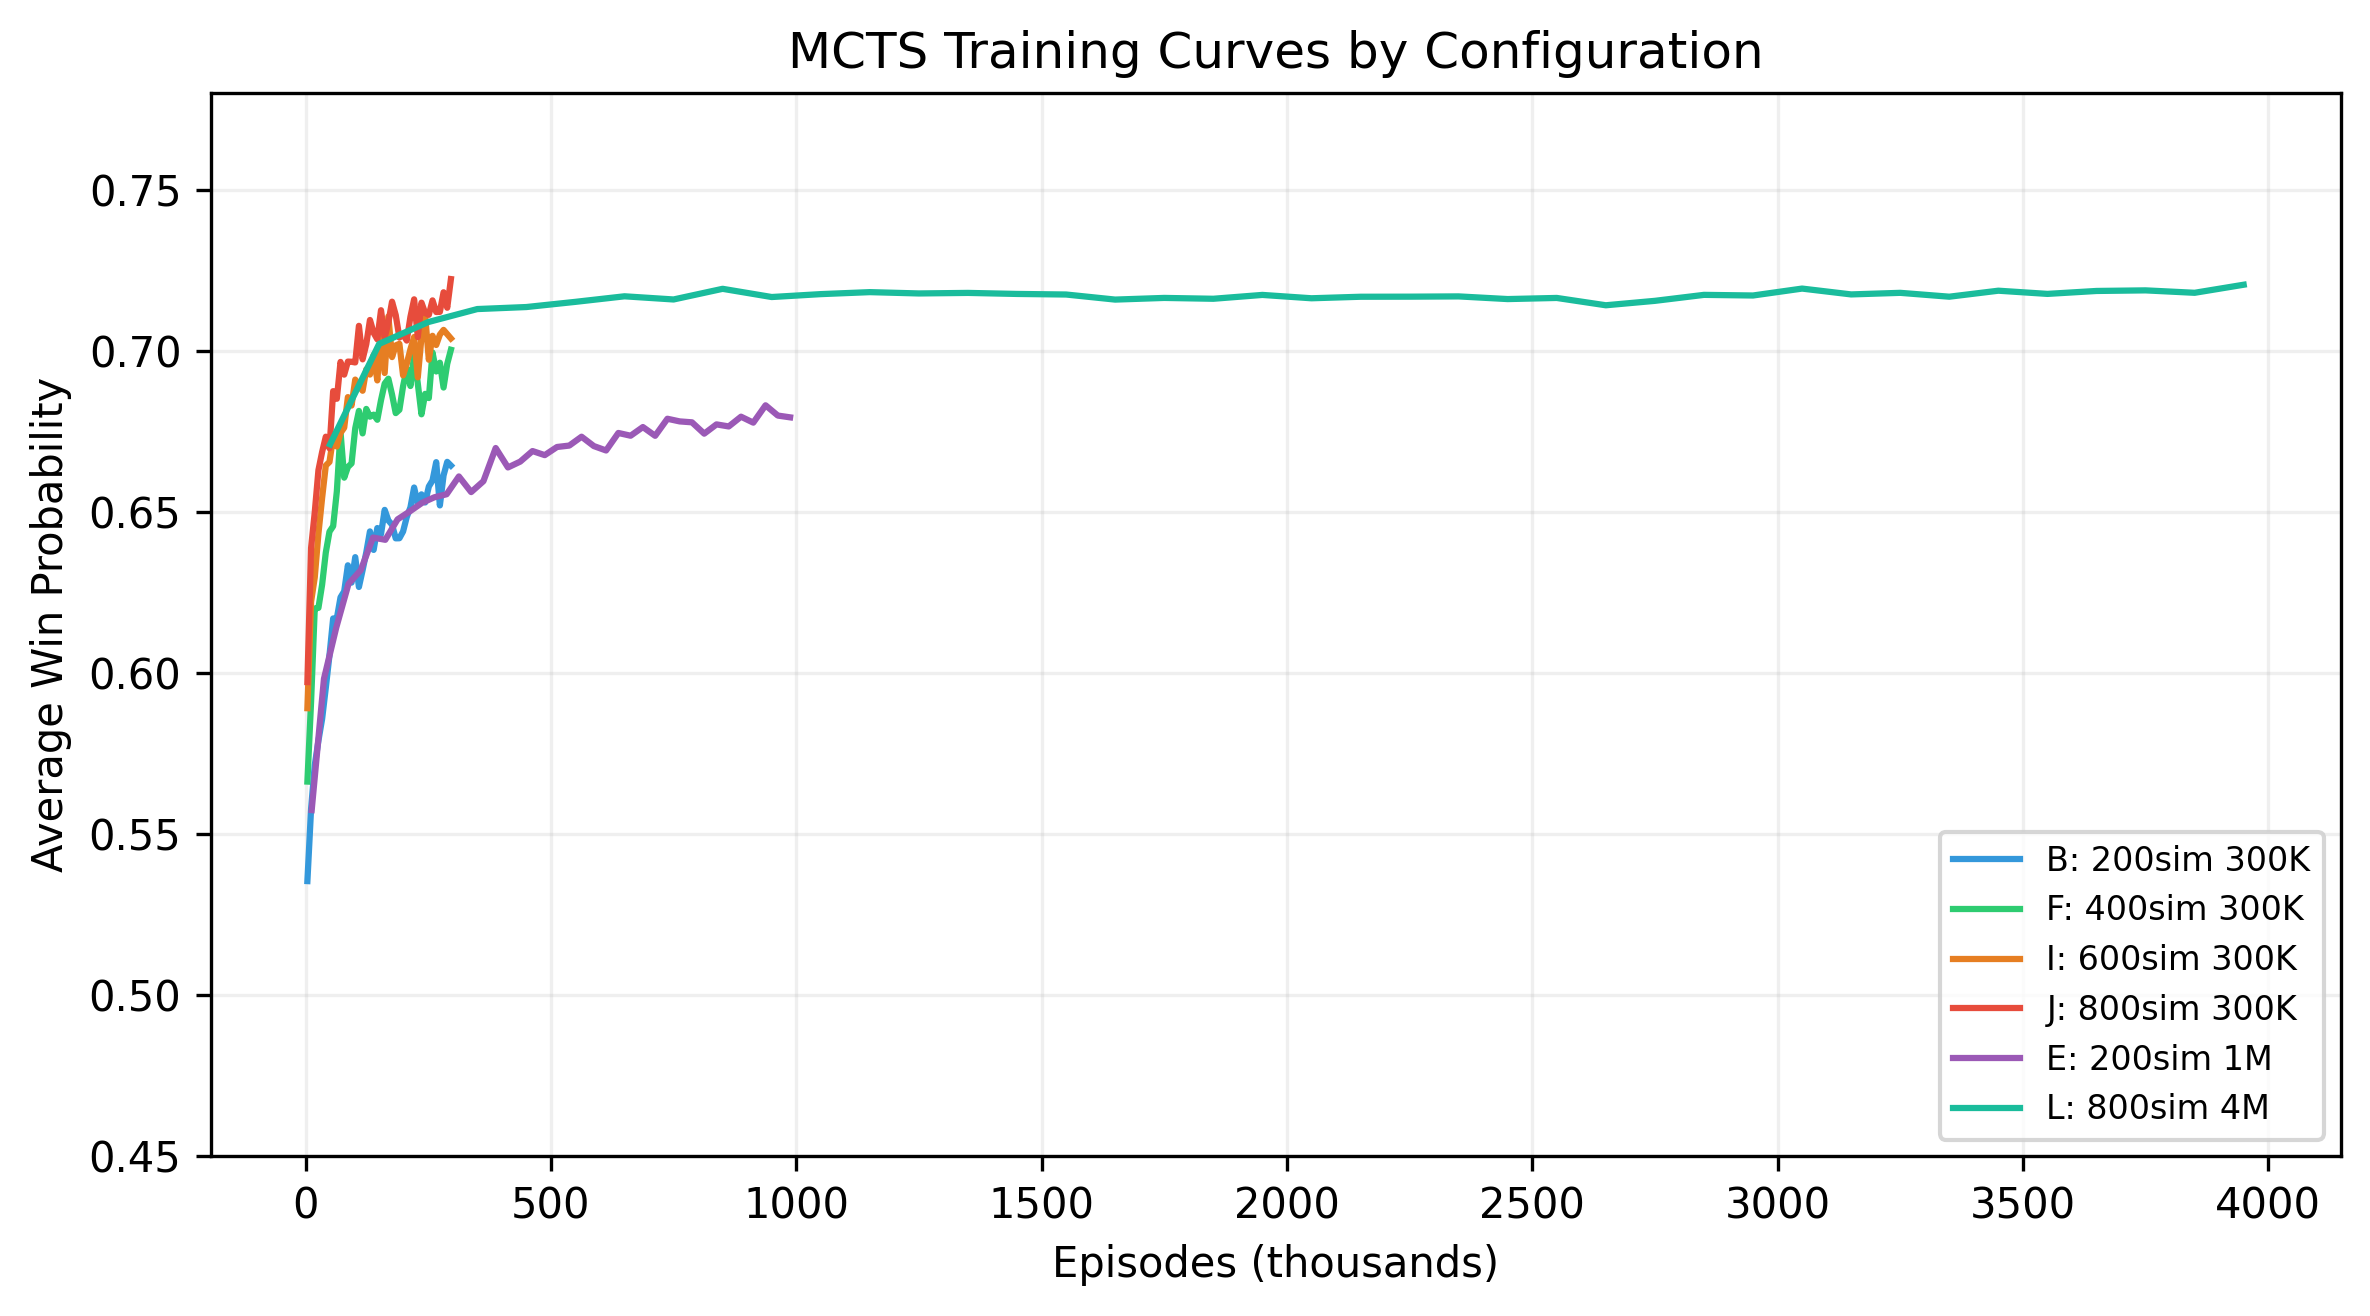
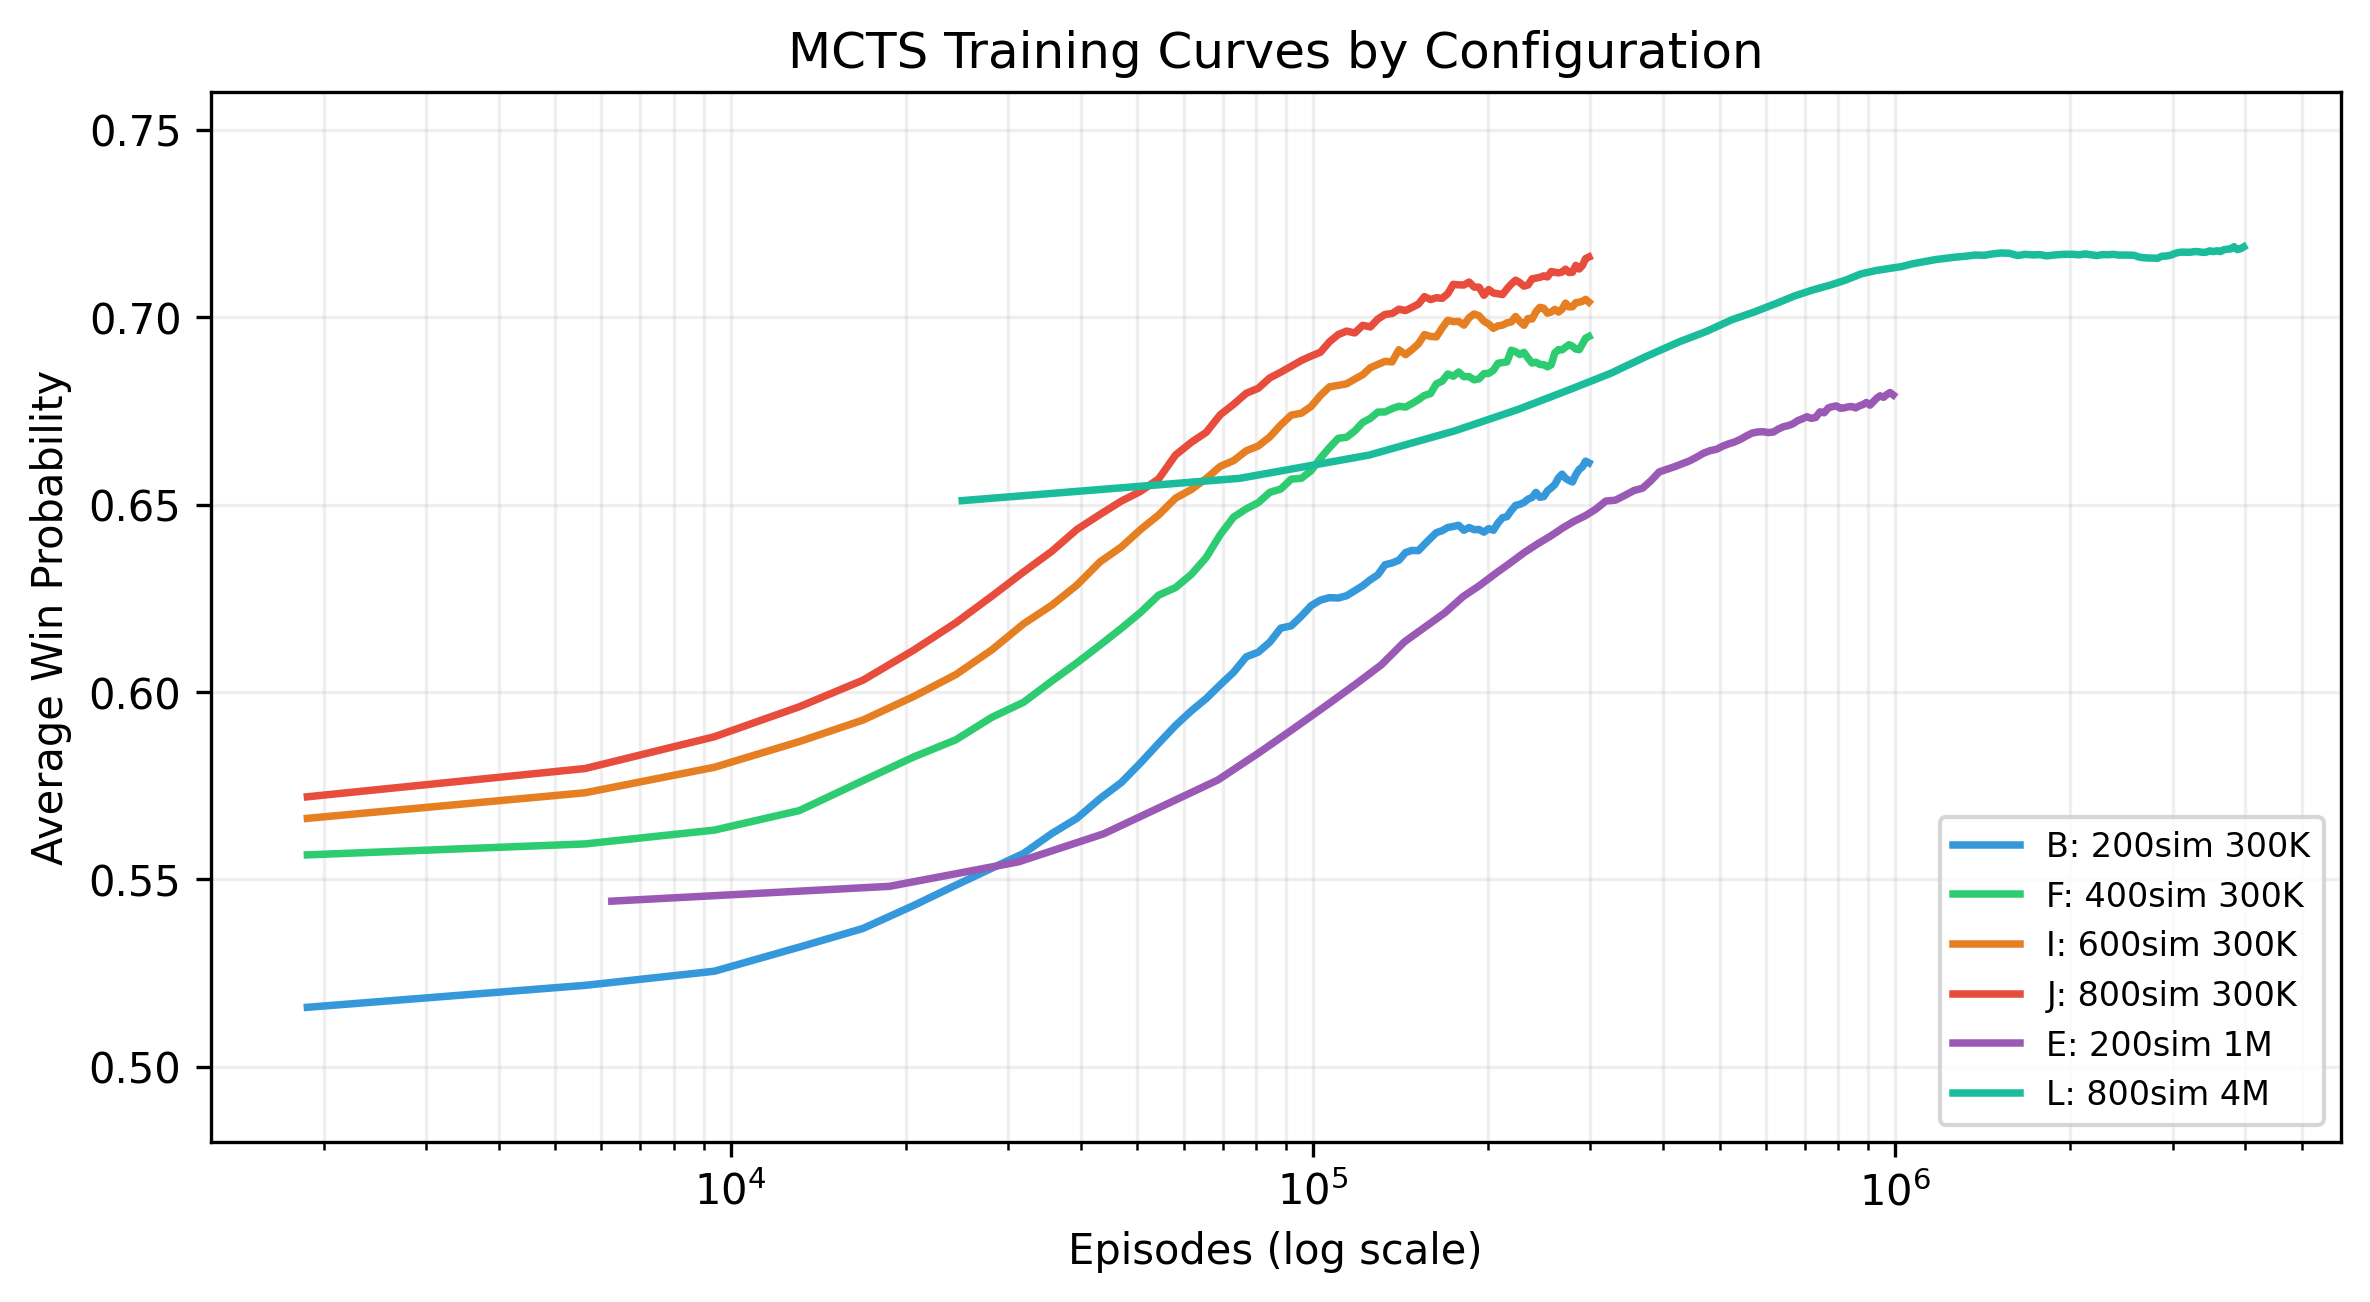
Fix figures and add augmentation tradeoff discussion
Figures:
- fig_mcts_curves: Log x-axis + exponential smoothing
- fig_safety_context: Fixed L label placement, resolved CQL label overlaps
- All figures regenerated as PNG

Content:
- Paper 1: Added safety-context tradeoff paragraph noting augmented model's
  negative counter responsiveness and narrow hero pool despite best healer%
- Paper 2: Same tradeoff note, cross-referencing CQL section

diff --git a/paper/cog2026_aux/draft.tex b/paper/cog2026_aux/draft.tex
@@ -147,6 +147,8 @@ Table~\ref{tab:synth} and Fig.~\ref{fig:comp} show the result. Synthetic augment
 
 The residual 26.5\% degenerate rate likely reflects the greedy search horizon (depth-1 cannot plan for future healer availability) and genuine domain ambiguity: no-healer compositions win 43\% of real games, so the model correctly treats them as disadvantaged rather than catastrophic.
 
+However, composition safety comes at a cost. In concurrent MCTS experiments with 15-seed evaluation, the augmented WP model produces negative counter responsiveness ($-0.10$) and lower synergy exploitation ($+0.73$) compared to the non-augmented enriched model ($+0.15$ counter, $+0.69$ synergy). The synthetic data teaches the model to always prefer balanced compositions, reducing its ability to recognize matchup-specific advantages of unconventional picks. The augmented model also achieves 100\% healer selection but uses only 25 distinct heroes across 600 drafts, suggesting it collapses toward a narrow ``safe'' hero pool. This safety--context tradeoff parallels the CQL collapse we report in concurrent work~\cite{segan2026composition}: methods that achieve composition safety by penalizing uncommon states tend to sacrifice context-awareness.
+
 \section{Connection to Offline RL}
 
 The behavior we observe is a specific instance of OOD value overestimation from offline RL~\cite{kumar2020conservative,levine2020offline}. A value function $V_\theta$ trained on dataset $\mathcal{D}$ may be arbitrarily wrong for states underrepresented in $\mathcal{D}$, and a greedy policy specifically seeks states where $V_\theta$ is overoptimistic. In our setting, $\mathcal{D}$ is 473K replays where 95\%+ of teams have healers; the OOD states are healerless compositions that greedy search constructs by repeatedly selecting individually-strong heroes.

diff --git a/paper/cql_followup/draft.tex b/paper/cql_followup/draft.tex
@@ -205,6 +205,8 @@ The architecture alone (without synthetic data) only reduces degenerate rate fro
 
 The residual 26.5\% likely reflects the greedy search horizon (depth-1 cannot plan for future healer availability) and genuine domain ambiguity: no-healer compositions win 43\% of real games.
 
+Importantly, composition safety comes at a cost. In our MCTS experiments (Table~\ref{tab:mcts}), the augmented WP model (H\_augmented) produces negative counter responsiveness ($-0.10$ in greedy evaluation, $+0.16$ in MCTS) but with 100\% healer selection and only 25 distinct heroes. The synthetic data teaches the model to prefer safe compositions, reducing its sensitivity to matchup-specific advantages of unconventional picks. This safety--context tradeoff is a greedy-search manifestation of the same phenomenon we observe with CQL in Section~\ref{sec:cql}: methods that penalize uncommon states improve safety metrics while sacrificing context-awareness.
+
 \section{MCTS with Augmented Value Function}
 
 \subsection{MCTS Training}
@@ -313,6 +315,7 @@ MCTS experiments A\_partial and G\_base were retrained with the corrected WP mod
 This finding has broader implications: any value function trained on sequential decision data with multiple correlated observations per episode (game states, medical trajectories, financial time series) requires episode-level train/test splitting. Sample-level splitting will systematically overestimate generalization performance whenever observations within an episode share latent structure.
 
 \section{CQL: Safety Without Understanding}
+\label{sec:cql}
 
 \subsection{CQL Setup}
 
